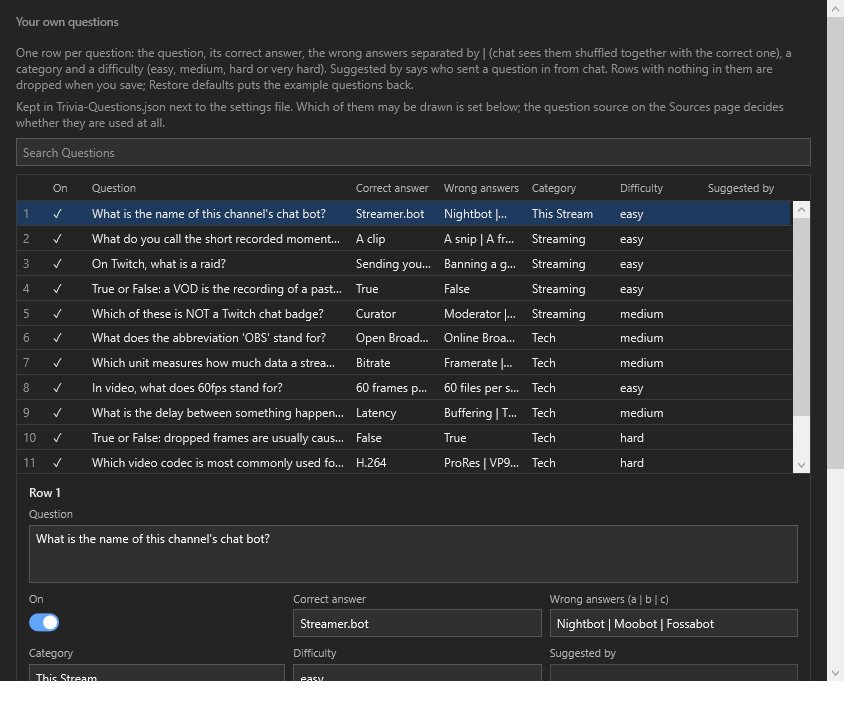
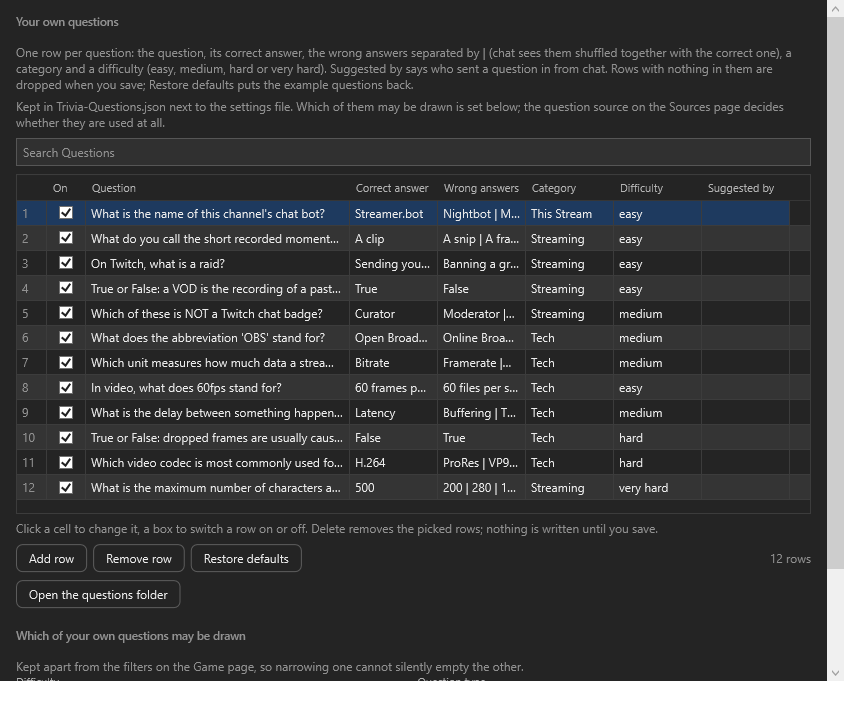
v9.0.0: the question list edited in place, with a checkbox per row

diff --git a/CHANGELOG.md b/CHANGELOG.md
@@ -18,8 +18,9 @@ family has, in English or German, and it keeps itself up to date. Nothing change
 - **A tidier Sources page.** Source, language and `Check` share one line, the answer of `Check` shows under them;
   only the description of the picked source is shown; the IGDB keys appear only while IGDB is picked, and the
   Client Secret is masked. The share of your own questions no longer reads "Mine (%) (%)".
-- **The question list is a table.** One line per question, a search box above, and the picked question in full
-  below to edit; *Suggested by* is filled by the game and only read here. Needs UIFramework 0.9.8.
+- **The question list is a table again,** edited in place like before UIFramework: one line per question, a click
+  into a cell edits it, a checkbox in every row switches it on or off, Delete removes the picked rows, a search box
+  above. *Suggested by* is filled by the game and only read here. Needs UIFramework 0.9.9.
 - **The settings window is UIFramework's.** `[TG] - Settings` is now UIFramework's generic settings action: it
   fetches `UIFramework.dll` from GitHub on first use (into `UIFramework\lib` next to Streamer.bot) and keeps it
   current; the window itself is declared once in `Trivia-Game.cs`, as the table of settings the game reads, so
